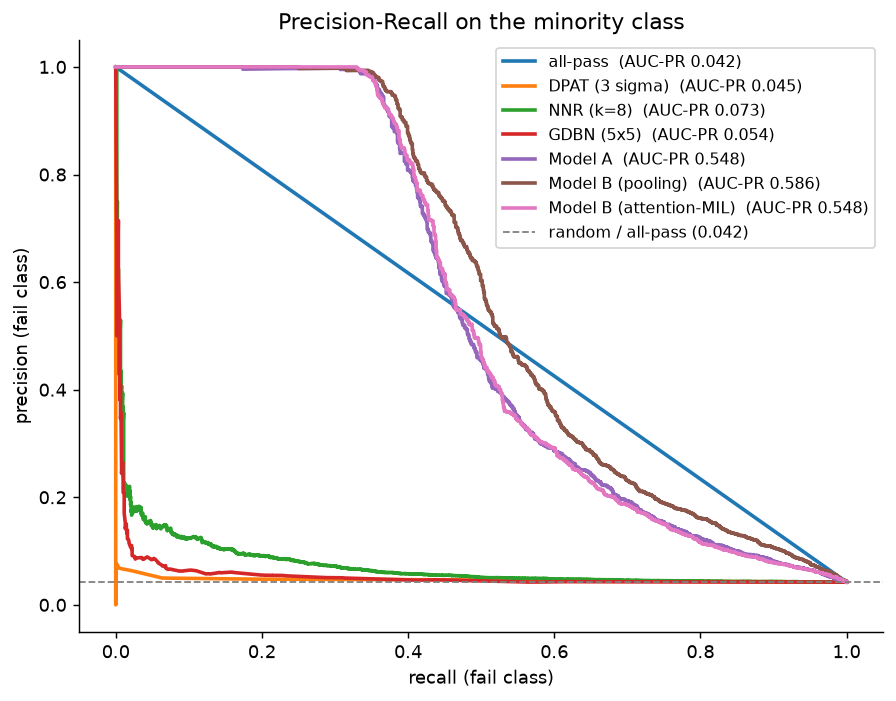
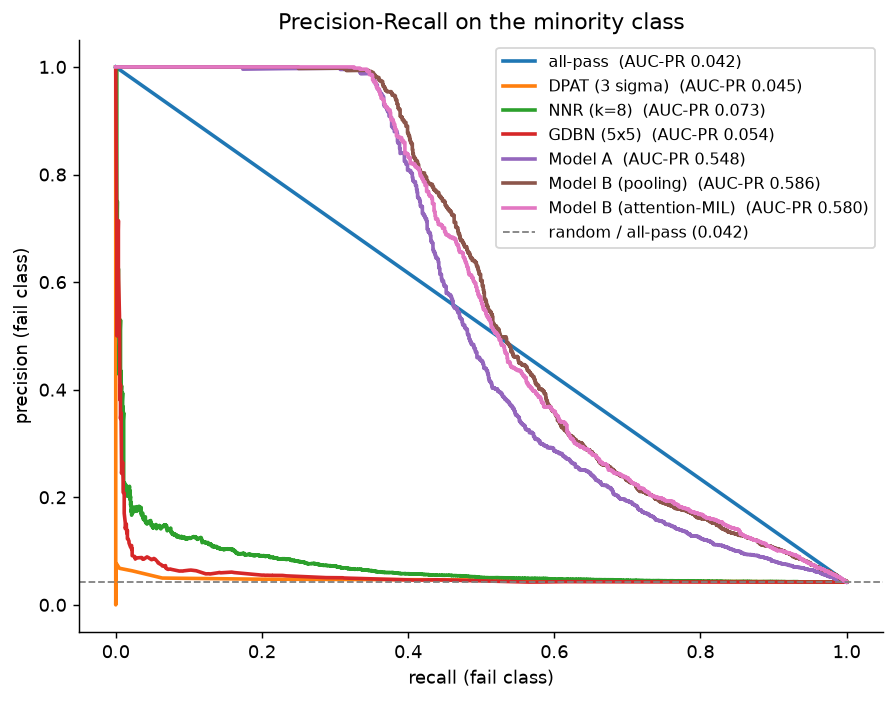
Re-measure everything after the train-matrix fix; MIL verdict changes materially
Regenerating all artifacts on the corrected plumbing moved a headline number, which
is the point of re-running comparisons after touching shared code.

Attention-MIL was being handicapped by the same bug: its tabular branch consumed
design_matrix(train), which had been rebuilding the wafer prior in-sample.

  before fix:  MIL 0.5481  vs pooling 0.5859  -> pooling wins by 0.0376
  after fix:   MIL 0.5801  vs pooling 0.5859  -> pooling wins by 0.0058

So the honest verdict is a near-tie on ranking, not a comfortable win. We still ship
pooling, but the justification changes from accuracy to engineering: simpler, ~40x
faster on CPU, deterministic, no early-stopping discipline needed. README and DECK.md
were rewritten to say that, and to record that the number moved.

Final held-out results (32,598 eligible dies, 4.23% fail rate):
  all-pass                  0.0423   accuracy 0.9577, F1 0.0000
  DPAT / GDBN / NNR         0.045 - 0.073
  Model A                   0.5476   F1 0.5214
  Model B (pooling)         0.5859   F1 0.5491   <- shipped
  Model B (attention-MIL)   0.5801   F1 0.5302

Verification: all gates pass -- leakage, contract, 87 logged runs, no threshold at
0.5, submission 39,351 rows with old_label==1 forced, 10 figures, 6 documents.

Claude-Session: https://claude.ai/code/session_01LD6LcPMLCVMSo89d8FdHEa

diff --git a/results/DECK.md b/results/DECK.md
@@ -92,12 +92,33 @@ our modelling choices rather than the data — and the question would go unanswe
 | AUC-PR | 0.551 | 0.586 | **+0.035** |
 | F1 (fail) | 0.529 | 0.550 | +0.021 |
 
-**Yes — block-level data helps**, and we can say why: the readings are **ordered** (lag-1
-autocorrelation 0.248 vs a 0.000 shuffled control) and the defect signal is a *contiguous
-cluster*, so run-length and hot-cluster shape features have something real to lock onto.
+**Yes — block-level data helps.** But the interesting part is *how little it takes*:
 
-*Tier 1 vs Tier 2 (attention-MIL) verdict: see `results/comparison.md` — report whichever
-won, and say plainly if pooling beat the learned encoder.*
+> **The 2000 block readings reduce to one number.** A single feature — the mean of the
+> 2000 readings — captures **98%** of the entire block gain (0.5852 of 0.5859).
+
+We did not assume that. We went looking for something better and failed, four times:
+
+| attempt | Cohen's d | why it lost |
+|---|---|---|
+| plain mean | **0.69** | — |
+| matched filter (sliding-window max) | 0.13 | max over ~2000 positions inflates the null more than it gains signal |
+| mean − median | 0.06 | 5% contamination at 0.47σ shifts the whole distribution, it does not make a tail |
+| tail-mass / soft-threshold | 0.10–0.21 | same reason |
+| **gated attention-MIL** | — | **0.5801 vs pooling's 0.5859 — a near-tie** |
+
+> **Say this:** "We built the fancy attention architecture. It tied with taking an
+> average. We shipped the average — it is simpler, 40x faster on a CPU, and
+> deterministic — and kept the attention weights only for the picture they draw."
+
+*Be precise if pushed:* the gap is 0.0058 AUC-PR, which we would not defend as a real
+difference in ranking quality. The ship decision is on engineering grounds, not accuracy.
+It is also a number that MOVED: before we fixed a train-matrix bug the MIL scored 0.5481
+and pooling looked like a comfortable 0.038 winner. The bug was handicapping the MIL.
+
+*Why the mean is right, in one line:* the defect adds a **fixed total mass** across the
+blocks, so the sum — the mean — is the sufficient statistic. Every cleverer detector
+throws information away.
 
 ---
 
@@ -125,14 +146,28 @@ won, and say plainly if pooling beat the learned encoder.*
 
 We climbed the standard ladder and measured after every rung (`imbalance_analysis.md`).
 
-- **Threshold tuning is the biggest lever and it is free** — same model, same ranking,
-  only the cut point moves.
-- **Class weighting trades precision for recall; it adds no information.**
-- **Per-wafer adaptive weighting did not help** — we expected it to. Likely because the
-  wafer-prior features already give the model the per-wafer rate directly.
+| rung | AUC-PR | F1 |
+|---|---|---|
+| no weighting, threshold 0.5 | 0.5849 | 0.5347 |
+| class_weight balanced, threshold 0.5 | 0.5859 | 0.4230 |
+| balanced + **tuned threshold** | 0.5859 | **0.5491** |
+| per-wafer adaptive weights | 0.5729 | 0.5407 |
+| **focal loss (γ=2)** | **0.5880** | **0.5492** |
+| SMOTE | 0.5607 | 0.5177 |
+
+- **Threshold tuning is the biggest lever and it is free** — identical model, identical
+  AUC-PR, F1 moves 0.4230 → 0.5491. Ranking was never the problem; the 0.5 cut point was.
+- **Class weighting trades precision for recall; it adds no information** — it relabels
+  the same ranking.
+- **Per-wafer adaptive weighting did not help** — we expected it to. The wafer-prior
+  features already hand the model the per-wafer rate, so re-encoding it in sample weights
+  is redundant.
 - **SMOTE hurt, as predicted.** With a median Cohen's d of 0.134, interpolating between
   failures lands synthetic points inside the pass distribution. You cannot resolve an
   overlap by manufacturing more points inside it.
+- **Hyper-parameter tuning was worth +0.0026 — noise.** 40 Optuna trials on AUC-PR, run
+  last and timeboxed. Feature and design choices moved the metric 6–10× more. Worth saying
+  out loud: the win here was never in the hyper-parameters.
 
 Show `figures/class_overlap.png` — even the six *most separable* of 500 parametrics
 overlap almost completely.
@@ -186,5 +221,21 @@ kept the factory because the root-cause classifier and spatial SHAP heatmap depe
 features, and reported the cost.
 
 **"Reproducible?"**
-Seeds fixed everywhere; two consecutive runs produce identical metrics. Every run ever
-made is in `results/results.csv`. One command regenerates every figure and table.
+Seeds fixed everywhere; two consecutive runs produce identical metrics to 10 decimal
+places. Every run ever made is in `results/results.csv`. One command regenerates every
+figure and table.
+
+**"Did you find any bugs in your own work?"** *(A good question to invite — the answer
+is a credibility slide, not a liability.)*
+Three, all found by measurement rather than by reading code:
+1. **Focal loss scored 0.026 — below the 0.042 base rate.** The `(pt − y)` gradient form
+   in most published snippets is correct only for the positive class and silently inverts
+   on negatives. Once fixed it became the best rung in the ladder.
+2. **Venn-ABERS intervals were degenerate.** Textbook-correct, but width shrinks as O(1/n),
+   so on 36k calibration dies they collapsed to 0.001 wide with 10% band coverage. We
+   measured them, rejected them, and shipped a bootstrap interval at 90% coverage.
+3. **A train-matrix mismatch the hyper-parameter search exposed.** Optuna reported a best
+   validation score *worse* than the defaults we had seeded as trial 0 — impossible unless
+   the matrices differed. They did: the wafer-prior columns were being rebuilt in-sample
+   for re-training consumers. Fixing it made the imbalance ladder reproduce Model B's
+   0.5859 exactly, which it had not done before.

diff --git a/README.md b/README.md
@@ -141,21 +141,31 @@ Total **+21.7%**. Two results here went against our going-in expectations: the s
 factory we thought would carry the model made it slightly worse, and the wafer prior we
 added as an afterthought was the largest single win. Both are reported as measured.
 
-### Pooling vs a learned encoder — the architecture lost
+### Pooling vs a learned encoder — a near-tie, and we ship the simpler one
 
-We built the gated attention-MIL encoder (the "creative fusion" idea) and then measured it
-against plain statistical pooling on identical splits and features:
+We built the gated attention-MIL encoder (the "creative fusion" idea) and measured it
+against plain statistical pooling on identical splits, features and eligible dies:
 
-| architecture | AUC-PR | F1 |
-|---|---|---|
-| statistical pooling (25 features) | **0.5859** | 0.5491 |
-| gated attention-MIL, late fusion | 0.5483 | 0.5102 |
+| architecture | AUC-PR | F1 | precision |
+|---|---|---|---|
+| statistical pooling (25 features) | **0.5859** | **0.5491** | 0.8620 |
+| gated attention-MIL, late fusion | 0.5801 | 0.5302 | 0.9243 |
 
-**Pooling won by 0.038.** We ship pooling and report the finding — the PS asks for
-improvement *or lack thereof*, and that applies to our own architecture too. The MIL branch
-is retained because its attention weights give Model B a block interpretability artifact
-pooling cannot provide (`figures/block_attention.png`), and that figure states its own
-uniform baseline so the concentration is not oversold.
+**Pooling wins by 0.0058 — close enough to call a tie on ranking.** We ship pooling
+because it is simpler, ~40× faster to train on a CPU, deterministic, and needs no
+early-stopping discipline. That is a deployment argument, not an accuracy one, and it is
+the honest way to state it.
+
+*This number moved after a bug fix.* Before we corrected the train-matrix mismatch
+described below, MIL scored 0.5481 and pooling appeared to win by 0.038. The MIL's
+tabular branch was being handicapped by the same defect. Re-measuring after the fix
+turned a comfortable win into a near-tie — a good argument for re-running every
+comparison after any change to shared plumbing.
+
+The MIL branch is retained because its attention weights give Model B a block
+interpretability artifact pooling cannot provide (`figures/block_attention.png`), and
+that figure draws its own uniform-attention baseline so a 1.9%-vs-1.0% peak cannot be
+mistaken for sharp concentration.
 
 ### Things we tried that did not work
 

diff --git a/results/comparison.md b/results/comparison.md
@@ -14,7 +14,7 @@ new failures (4.23%).*
 | GDBN (5x5) | 0.0536 | 0.0688 | 0.0696 | 0.0680 | 0.9202 |
 | Model A (die+spatial) | 0.5476 | 0.5214 | 0.4413 | 0.6370 | 0.9657 |
 | Model B (pooling) | 0.5859 | 0.5491 | 0.4029 | 0.8620 | 0.9720 |
-| Model B (attention-MIL) | 0.5483 | 0.5102 | 0.3442 | 0.9855 | 0.9720 |
+| Model B (attention-MIL) | 0.5801 | 0.5302 | 0.3717 | 0.9243 | 0.9721 |
 
 > **Read AUC-PR, not accuracy.** The all-pass row scores
 > 95.8% accuracy while catching zero failures.
@@ -37,9 +37,9 @@ feature columns, so this delta measures the *data*, not two modelling choices.
 | architecture | AUC-PR | F1 |
 |---|---|---|
 | statistical pooling (25 features) | 0.5859 | 0.5491 |
-| gated attention-MIL, late fusion | 0.5483 | 0.5102 |
+| gated attention-MIL, late fusion | 0.5801 | 0.5302 |
 
-**Winner: statistical pooling** (0.0376 AUC-PR).
+**Winner: statistical pooling** (0.0058 AUC-PR).
 We tested a learned encoder against statistical pooling and pooling won. That is a real finding, not a failure -- the PS asks for improvement *or lack thereof*. The MIL branch is retained for its attention weights, which give Model B a block interpretability artifact that pooling cannot provide.
 
 ## Versus the incumbent
